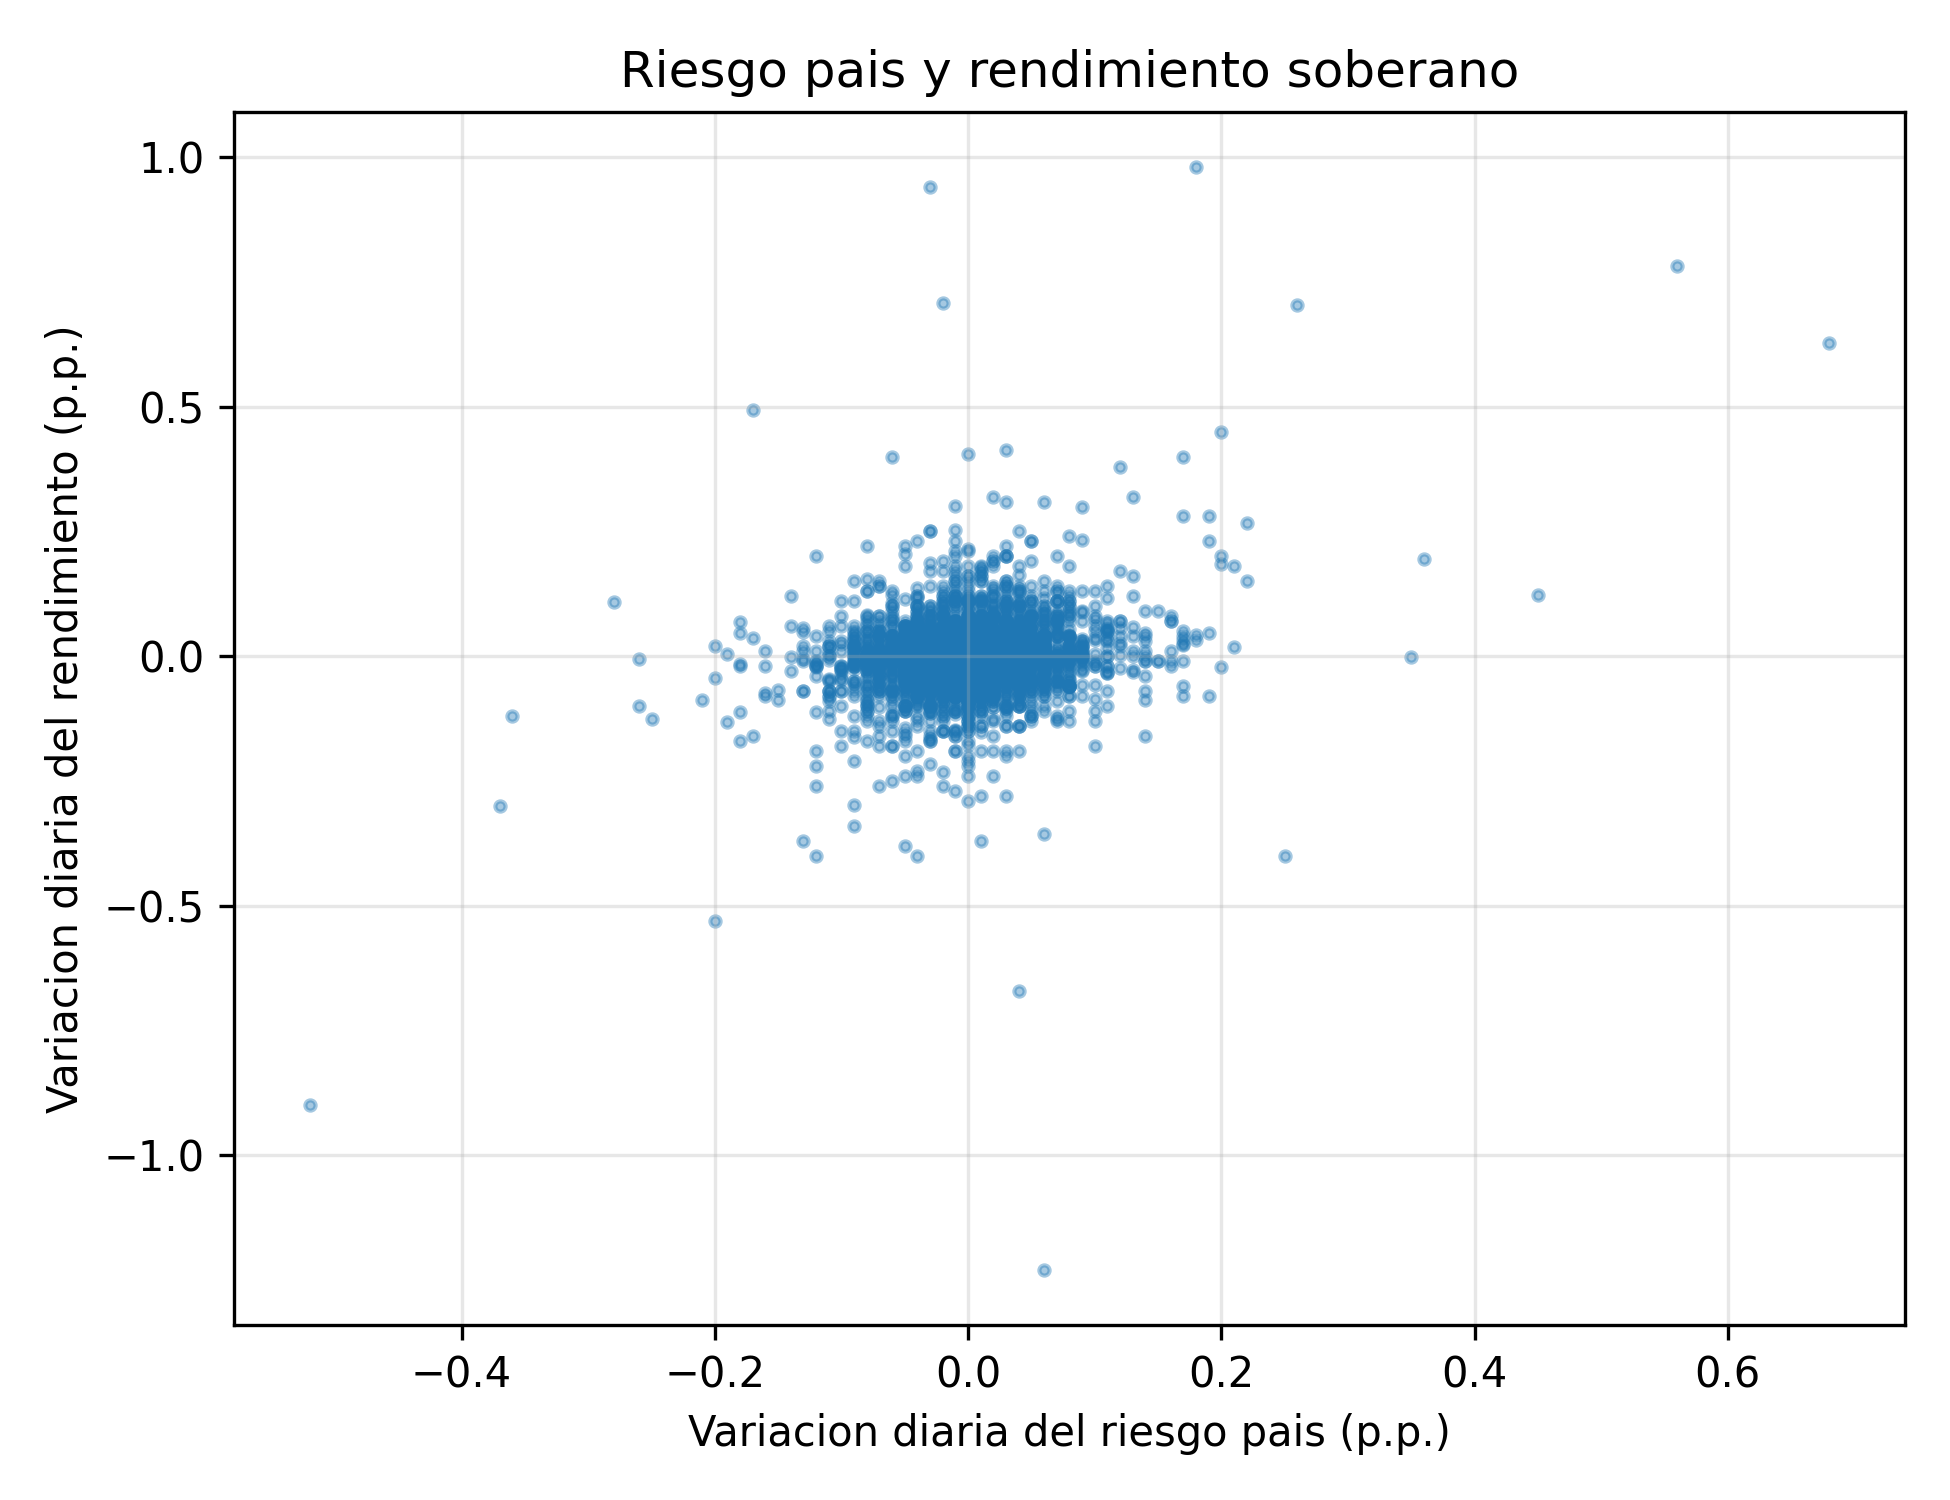
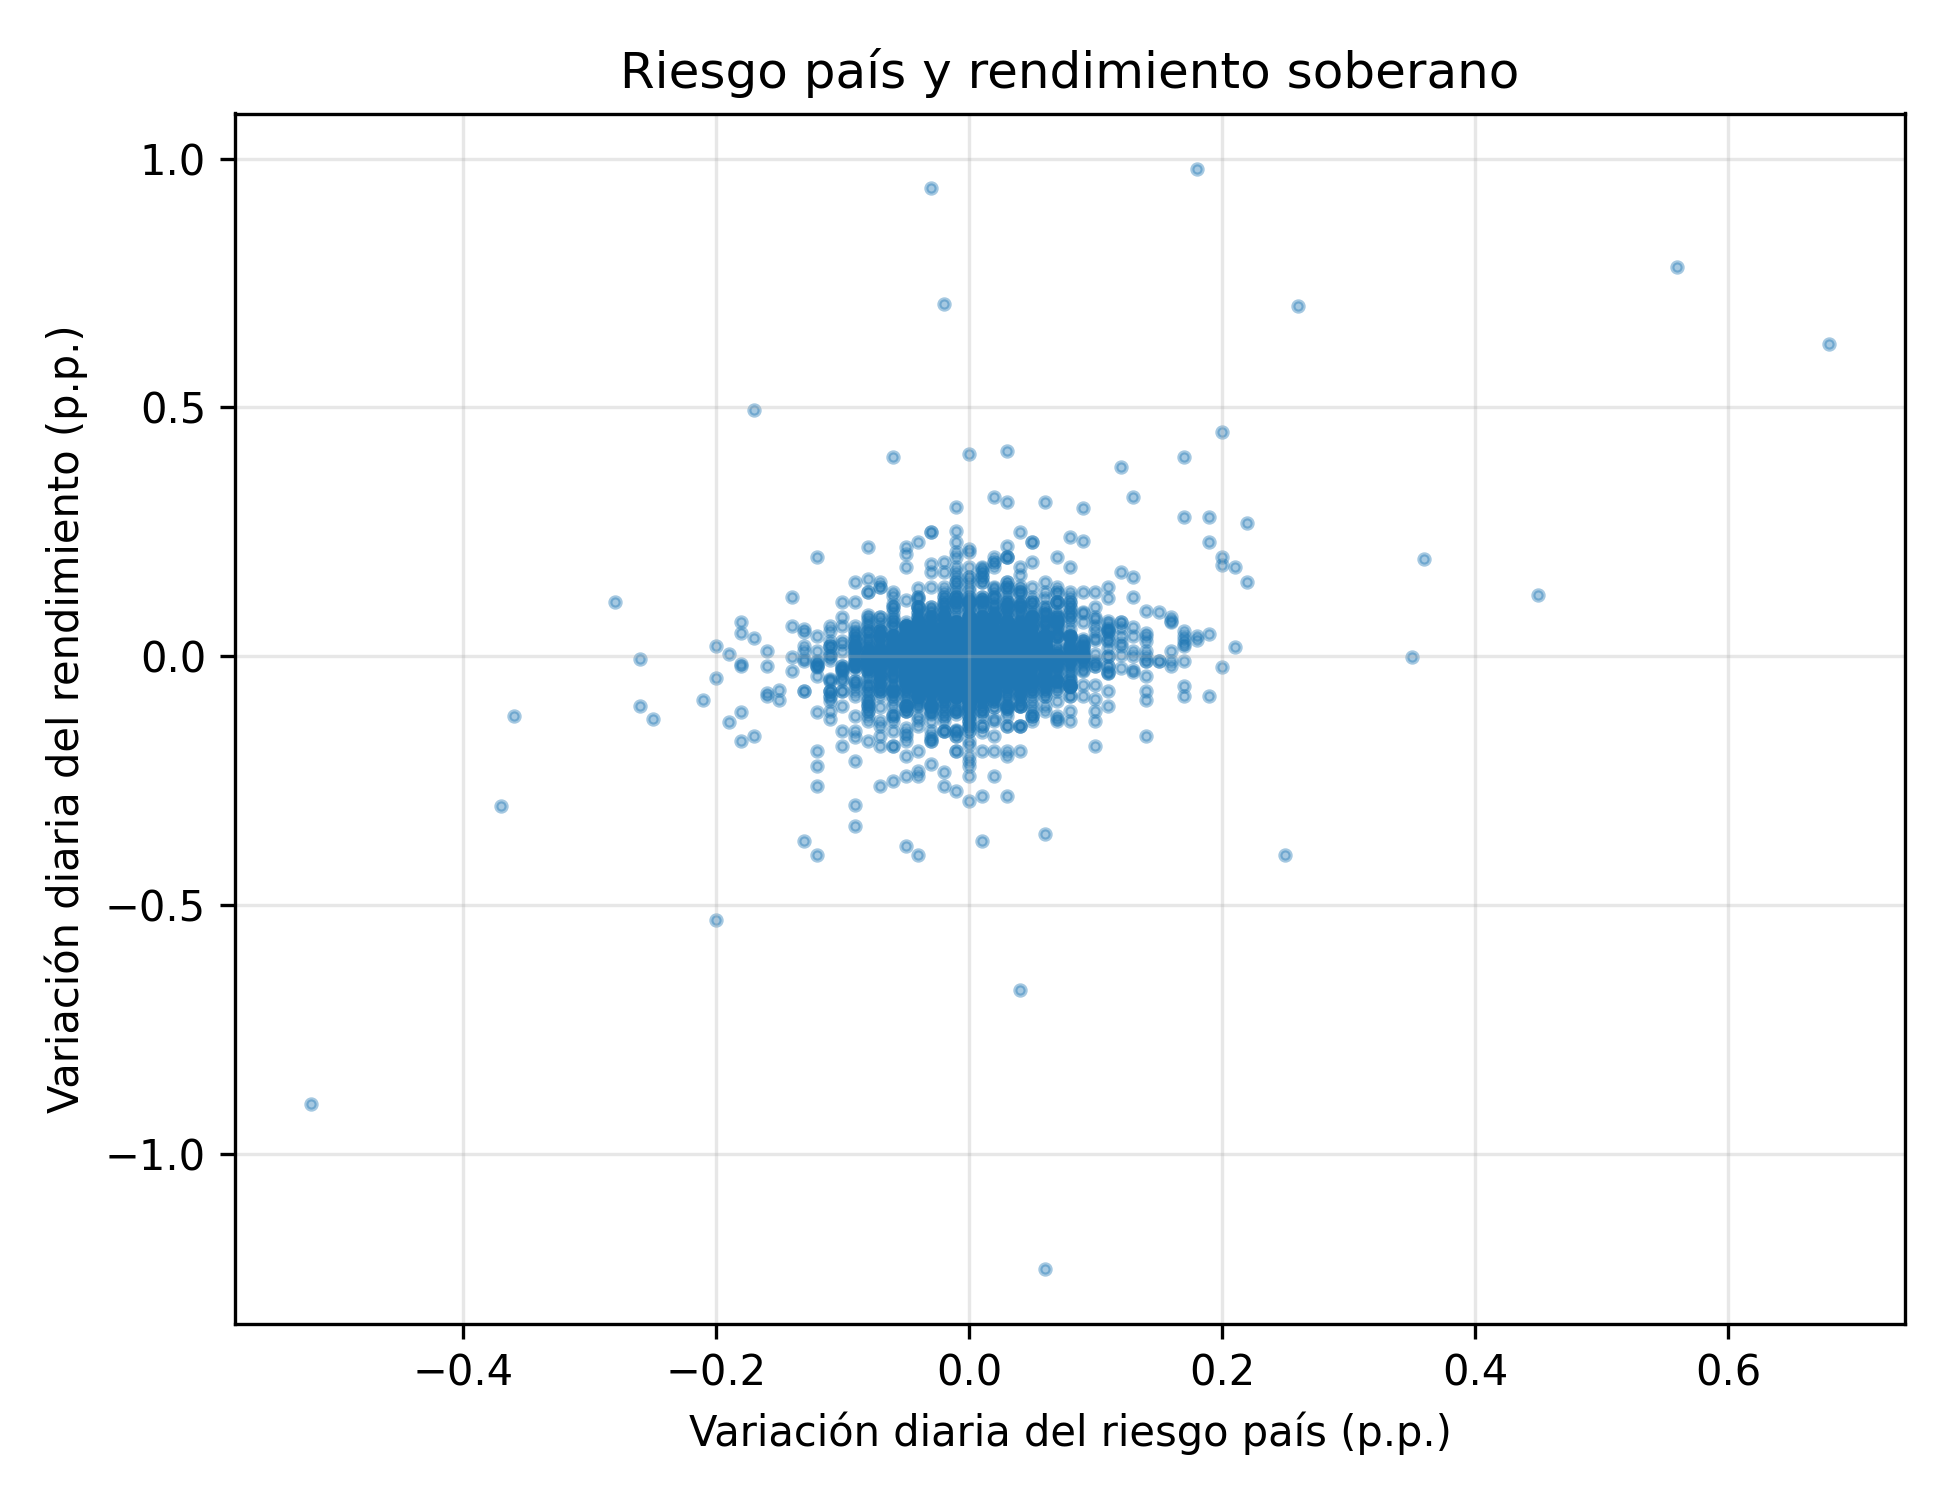
Correccion: incidencias al diseno vigente y etiquetas de figuras

diff --git a/codigo/04_analisis.py b/codigo/04_analisis.py
@@ -39,10 +39,10 @@ NIV = ["Y_rendimiento_soberano", "X1_tasa_referencia", "X2_treasury_10a",
        "X3_riesgo_pais", "X4_tasa_interbancaria"]
 DIF = ["d_" + v for v in NIV]
 
-ETIQ = {"Y_rendimiento_soberano": "Rendimiento del bono peruano a 10 anos",
+ETIQ = {"Y_rendimiento_soberano": "Rendimiento del bono peruano a 10 años",
         "X1_tasa_referencia":     "Tasa de referencia del BCRP",
-        "X2_treasury_10a":        "Bonos del Tesoro EE.UU. a 10 anos",
-        "X3_riesgo_pais":         "Riesgo pais (EMBIG Peru)",
+        "X2_treasury_10a":        "Bonos del Tesoro EE.UU. a 10 años",
+        "X3_riesgo_pais":         "Riesgo país (EMBIG Perú)",
         "X4_tasa_interbancaria":  "Tasa interbancaria en soles"}
 
 
@@ -132,14 +132,14 @@ def main():
     plt.figure(figsize=(11, 4))
     plt.plot(d.fecha, d.Y_rendimiento_soberano - d.X2_treasury_10a, linewidth=.9)
     plt.xlabel("Fecha"); plt.ylabel("Puntos porcentuales")
-    plt.title("Spread del bono peruano sobre el Tesoro de EE.UU. a 10 anos")
+    plt.title("Spread del bono peruano sobre el Tesoro de EE.UU. a 10 años")
     plt.grid(alpha=.3)
     figura("figura2_spread_soberano")
 
     # --- Figura 3: volatilidad de las variaciones
     plt.figure(figsize=(11, 4))
     plt.plot(dd.fecha, dd.d_Y_rendimiento_soberano, linewidth=.6)
-    plt.xlabel("Fecha"); plt.ylabel("Variacion diaria (p.p.)")
+    plt.xlabel("Fecha"); plt.ylabel("Variación diaria (p.p.)")
     plt.title("Variaciones diarias del rendimiento soberano")
     plt.grid(alpha=.3)
     figura("figura3_variaciones")
@@ -147,9 +147,9 @@ def main():
     # --- Figura 4: dispersion frente al riesgo pais
     plt.figure(figsize=(6.5, 5))
     plt.scatter(dd.d_X3_riesgo_pais, dd.d_Y_rendimiento_soberano, s=6, alpha=.4)
-    plt.xlabel("Variacion diaria del riesgo pais (p.p.)")
-    plt.ylabel("Variacion diaria del rendimiento (p.p.)")
-    plt.title("Riesgo pais y rendimiento soberano")
+    plt.xlabel("Variación diaria del riesgo país (p.p.)")
+    plt.ylabel("Variación diaria del rendimiento (p.p.)")
+    plt.title("Riesgo país y rendimiento soberano")
     plt.grid(alpha=.3)
     figura("figura4_riesgo_vs_rendimiento")
 

diff --git a/salidas/tabla1_descriptiva.tex b/salidas/tabla1_descriptiva.tex
@@ -5,10 +5,10 @@
 \toprule
  & N & Media & Desv. tip. & Minimo & Mediana & Maximo \\
 \midrule
-Rendimiento del bono peruano a 10 anos & 3692.0000 & 5.8299 & 1.0560 & 3.4900 & 5.7400 & 8.8000 \\
+Rendimiento del bono peruano a 10 años & 3692.0000 & 5.8299 & 1.0560 & 3.4900 & 5.7400 & 8.8000 \\
 Tasa de referencia del BCRP & 3692.0000 & 3.8355 & 1.7735 & 0.2500 & 4.0000 & 7.7500 \\
-Bonos del Tesoro EE.UU. a 10 anos & 3692.0000 & 2.5586 & 1.0187 & 0.5080 & 2.3730 & 4.9910 \\
-Riesgo pais (EMBIG Peru) & 3692.0000 & 1.6851 & 0.3528 & 0.9100 & 1.6300 & 3.7200 \\
+Bonos del Tesoro EE.UU. a 10 años & 3692.0000 & 2.5586 & 1.0187 & 0.5080 & 2.3730 & 4.9910 \\
+Riesgo país (EMBIG Perú) & 3692.0000 & 1.6851 & 0.3528 & 0.9100 & 1.6300 & 3.7200 \\
 Tasa interbancaria en soles & 3692.0000 & 3.8614 & 1.7790 & 0.0900 & 4.1500 & 7.9200 \\
 \bottomrule
 \end{tabular}

diff --git a/salidas/tabla2_adf.tex b/salidas/tabla2_adf.tex
@@ -6,10 +6,10 @@
  & p-valor en nivel & p-valor en variacion & Orden \\
 Variable &  &  &  \\
 \midrule
-Rendimiento del bono peruano a 10 anos & 0.2128 & 0.0000 & I(1) \\
+Rendimiento del bono peruano a 10 años & 0.2128 & 0.0000 & I(1) \\
 Tasa de referencia del BCRP & 0.4749 & 0.0000 & I(1) \\
-Bonos del Tesoro EE.UU. a 10 anos & 0.6533 & 0.0000 & I(1) \\
-Riesgo pais (EMBIG Peru) & 0.0003 & 0.0000 & I(0) \\
+Bonos del Tesoro EE.UU. a 10 años & 0.6533 & 0.0000 & I(1) \\
+Riesgo país (EMBIG Perú) & 0.0003 & 0.0000 & I(0) \\
 Tasa interbancaria en soles & 0.6058 & 0.0000 & I(1) \\
 \bottomrule
 \end{tabular}

diff --git a/incidencias_fuente.md b/incidencias_fuente.md
@@ -4,20 +4,29 @@ Registro de limitaciones tecnicas de las fuentes consultadas (numeral 2.4.3).
 
 ## 1. BCRPData — sin incidencias
 
-La via API respondio HTTP 200 en las 13 series consultadas, sin bloqueos.
-El detalle de cada solicitud esta en `log_ejecucion.txt`.
+La via API respondio HTTP 200 en las cinco series diarias consultadas, sin
+bloqueos ni restricciones. El detalle de cada solicitud, con fecha, hora y
+nombre oficial de la serie devuelta, esta en `log_ejecucion.txt`.
 
-## 2. SMV — exploracion documentada el 2026-09-25
+| Variable | Codigo | Serie oficial |
+|---|---|---|
+| Y | `PD31893DD` | Rendimiento del Bono del gobierno peruano a 10 anos (en S/) |
+| X1 | `PD12301MD` | Tasa de Referencia de la Politica Monetaria |
+| X2 | `PD04719XD` | Bonos del Tesoro EE.UU. - 10 anos (%) |
+| X3 | `PD04709XD` | Spread - EMBIG Peru (pbs) |
+| X4 | `PD04692MD` | Interbancaria, S/ |
 
-Se exploro el portal de la Superintendencia del Mercado de Valores buscando
-la tasa de colocacion por emision y la clasificacion de riesgo, variables que
-no existen como serie en BCRPData.
+## 2. SMV — exploracion documentada el 2026-09-23
+
+Se exploro el portal de la Superintendencia del Mercado de Valores buscando la
+tasa de colocacion por emision y la clasificacion de riesgo del emisor, dos
+variables del temario que no existen como serie en BCRPData.
 
 **Resultado de la exploracion:**
 
 - `https://www.smv.gob.pe/` responde HTTP 200, pero redirige a
-  `https://www.gob.pe/smv`, que es la ficha institucional de la SMV dentro del
-  portal unico del Estado, no el sistema de informacion.
+  `https://www.gob.pe/smv`, la ficha institucional de la SMV dentro del portal
+  unico del Estado, no el sistema de informacion.
 - No existe `robots.txt`: la ruta `/robots.txt` devuelve la pagina de inicio
   completa (270 843 caracteres, con `<!DOCTYPE html>`), comportamiento propio
   de una aplicacion de pagina unica.
@@ -30,16 +39,22 @@ no existen como serie en BCRPData.
 - La mesa de partes y el acceso de colaboradores exigen autenticacion
   (`mvnet.smv.gob.pe/mvnet/Autenticacion/frmInicio.aspx`).
 
-**Conclusion.** El SIMV no expone las emisiones en un formato accesible por
-via automatizada con las herramientas propias del ciclo V. Corresponde al
-supuesto del numeral 2.4.3: contenido dinamico servido por sesion.
+**Conclusion.** El SIMV no expone las emisiones en un formato accesible por via
+automatizada con las herramientas propias del ciclo V. Corresponde al supuesto
+del numeral 2.4.3: contenido dinamico servido por sesion.
 
 **Decision adoptada.** No se solicita sustitucion de fuente, porque no procede:
 la Unidad I exige una sola via automatizada (numeral 2.4.1) y la via API de
-BCRPData la cumple integramente, cubriendo las cuatro variables sustantivas
-del modelo. Las dos variables no disponibles se sustituyen por proxies
-declarados en Materiales y metodos: el spread bancario corporativo en lugar de
-la tasa de colocacion, y el EMBIG Peru en lugar de la clasificacion de riesgo.
+BCRPData la cumple integramente, cubriendo las cinco variables sustantivas del
+modelo.
+
+Las dos variables no disponibles se sustituyen por proxies declarados en
+Materiales y metodos:
+
+| Variable del temario | Sustituto | Justificacion |
+|---|---|---|
+| Tasa de colocacion por emision | `Y_rendimiento_soberano` (`PD31893DD`) | Tasa base del mercado de bonos peruano: ninguna emision corporativa local se coloca por debajo del soberano al mismo plazo |
+| Clasificacion de riesgo del emisor | `X3_riesgo_pais` (`PD04709XD`) | Riesgo crediticio puesto en precio por el mercado, en lugar de calificado por una agencia privada |
 
 **Etica del rastreo (numeral 2.4.8).** Todas las solicitudes se realizaron con
 User-Agent identificable, con pausas entre peticiones, sobre informacion
